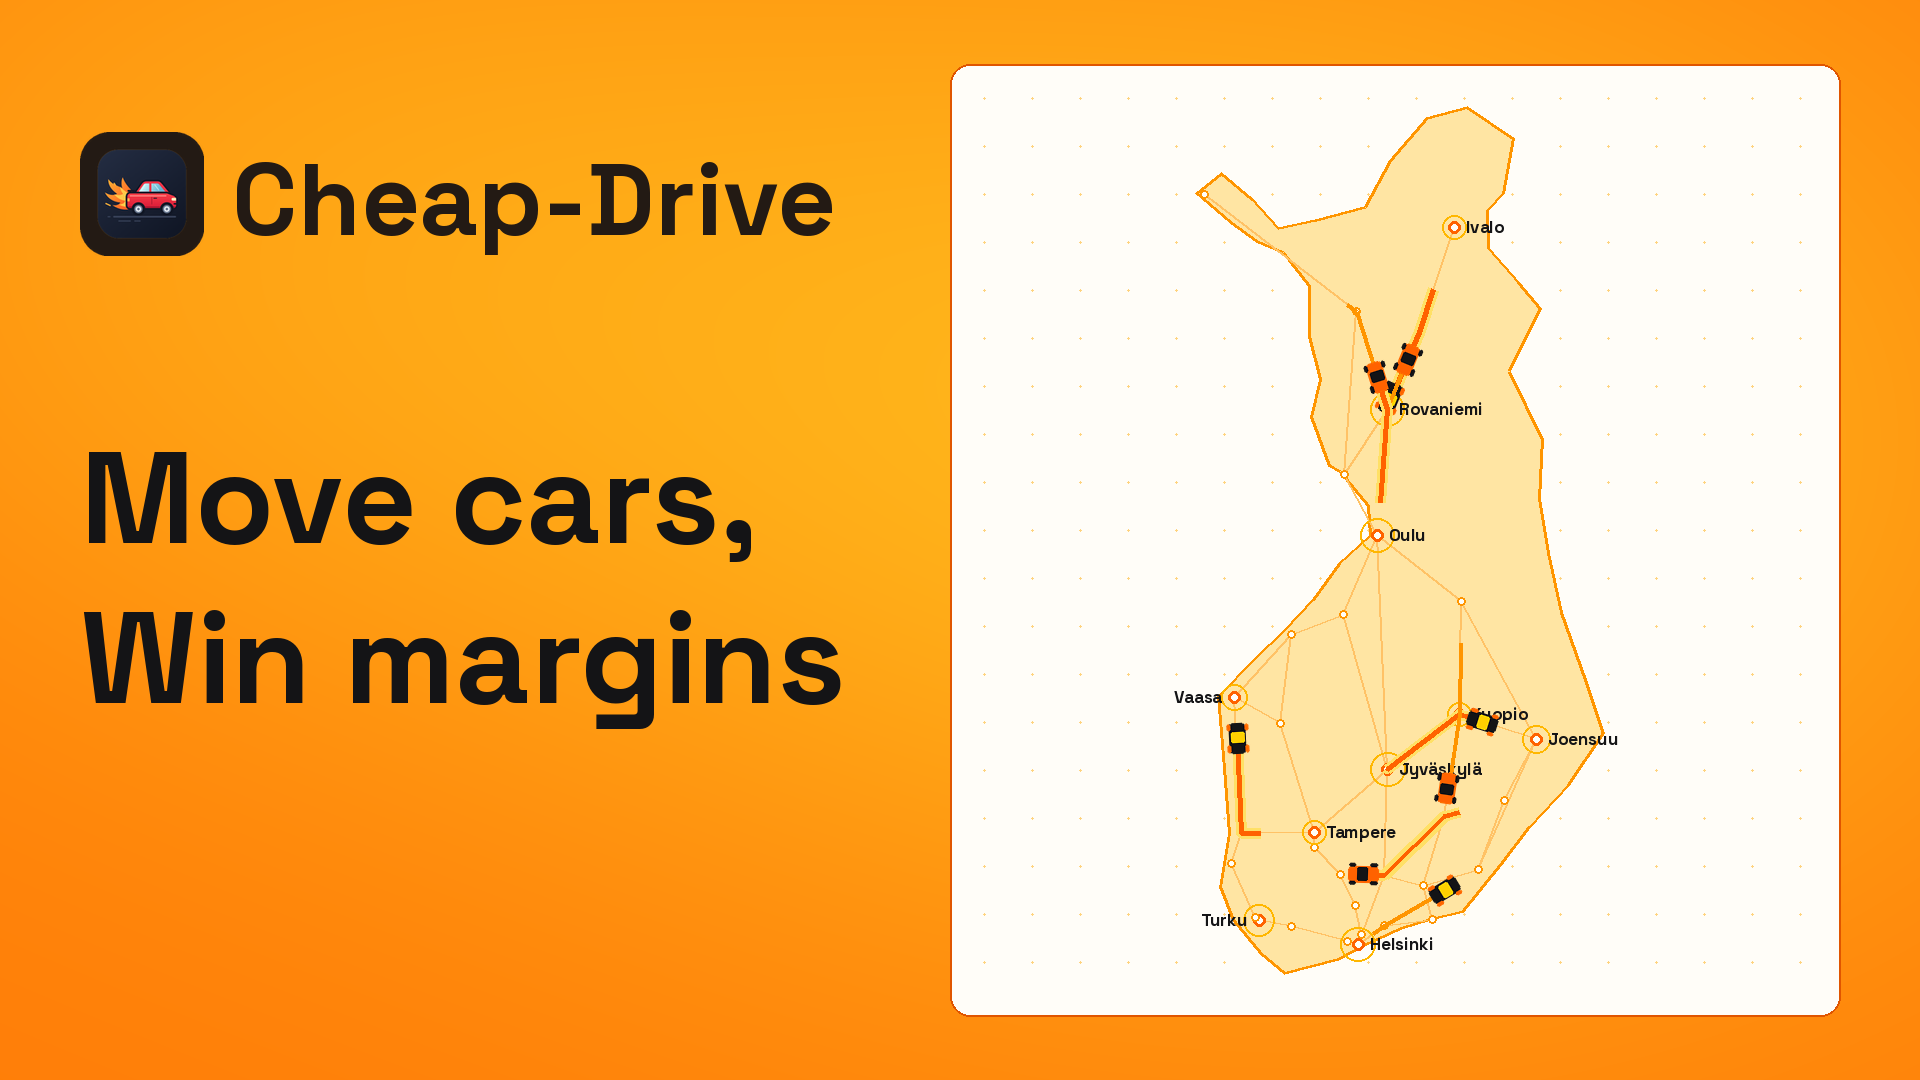
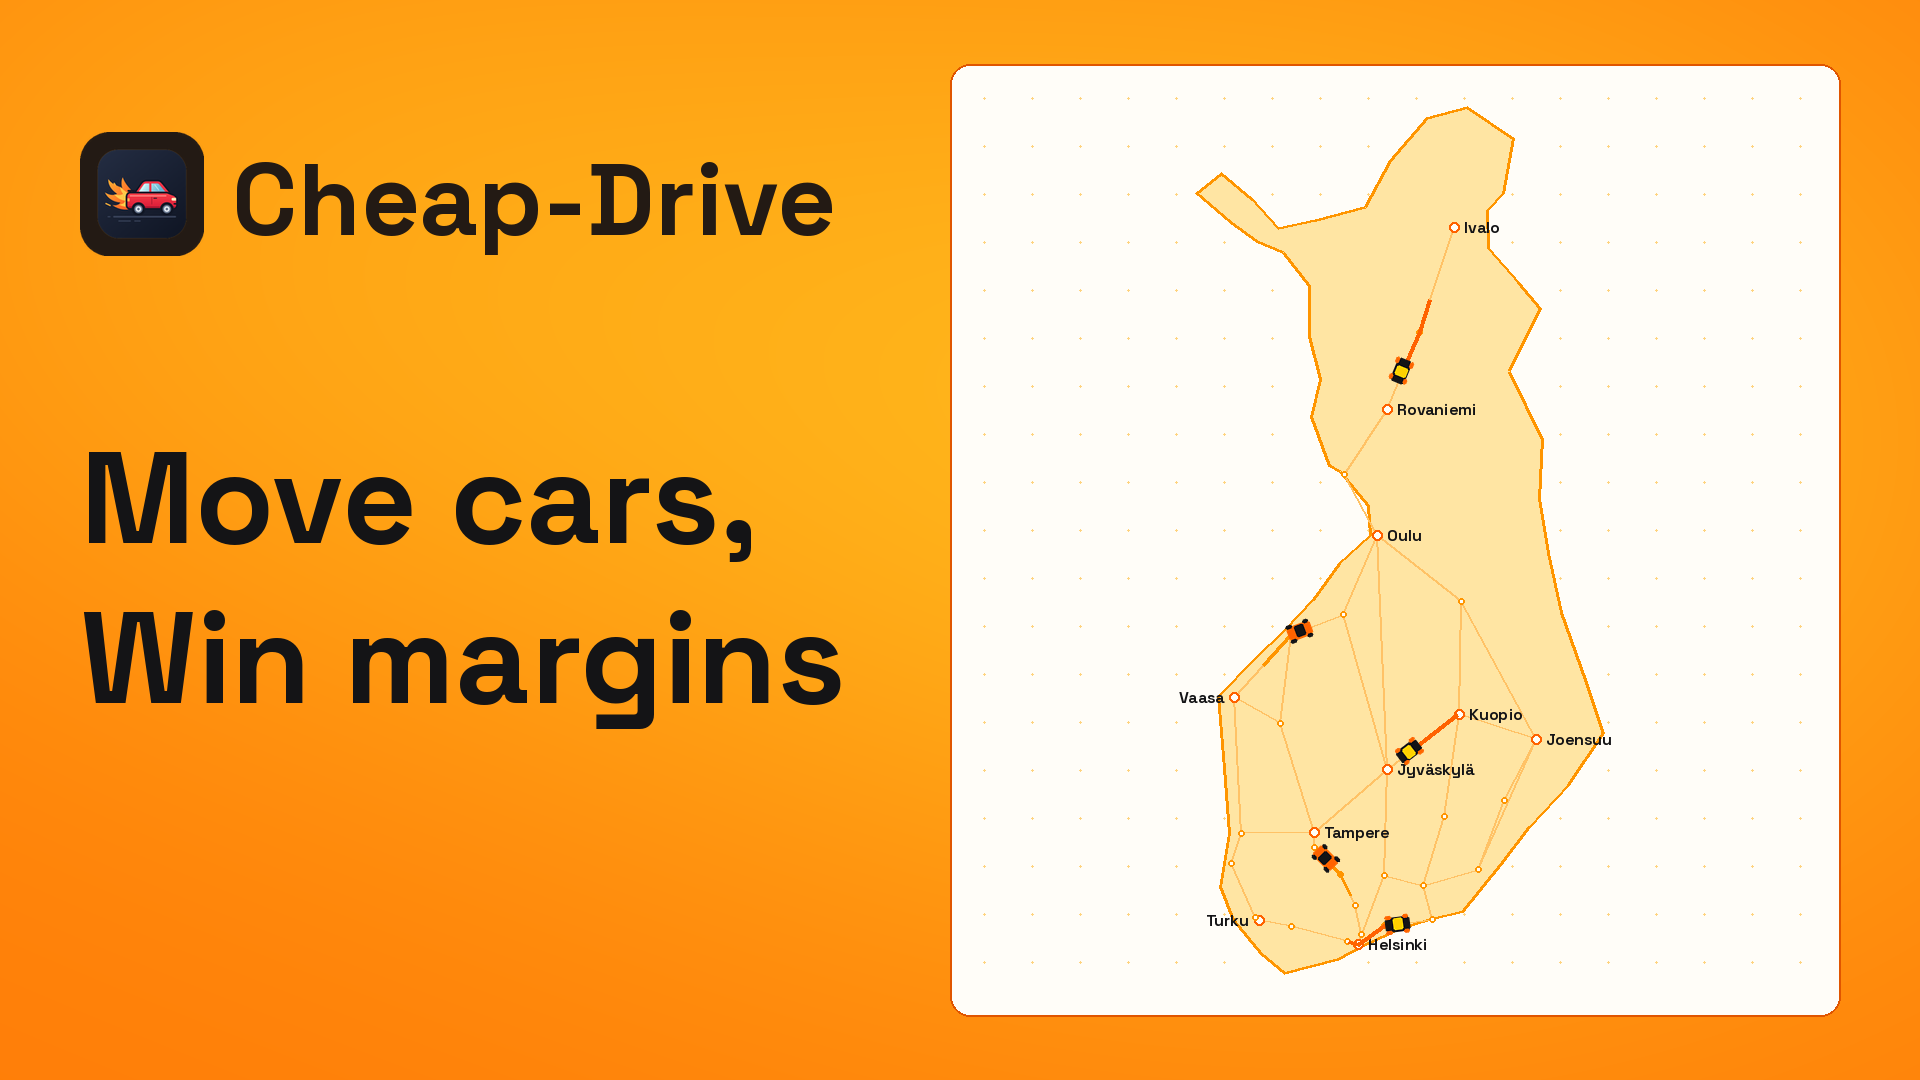
style(demo-video): make Finland fleet traffic calmer and more realistic

diff --git a/docs/demo-video/render.py b/docs/demo-video/render.py
@@ -262,7 +262,7 @@ FINLAND_BORDER = [
     (60.15, 25.10), (59.98, 24.40), (59.82, 22.96),
 ]
 
-# All 30 simulator places + northern Lapland waypoints so routes cover the entirety of Finland
+# All 30 real simulator places in Finland
 FINLAND_PLACES = {
     'helsinki': (60.1699, 24.9384, 'Helsinki', True),
     'espoo': (60.2055, 24.6559, 'Espoo', False),
@@ -295,15 +295,14 @@ FINLAND_PLACES = {
     'kemi': (65.7364, 24.5637, 'Kemi', False),
     'rovaniemi': (66.5039, 25.7294, 'Rovaniemi', True),
     'sodankyla': (67.4160, 26.5890, 'Sodankylä', False),
-    'kittila': (67.6547, 24.9074, 'Kittilä', False),
     'ivalo': (68.6576, 27.5397, 'Ivalo', True),
-    'kilpisjarvi': (69.0489, 20.7958, 'Kilpisjärvi', False),
 }
 
 FINLAND_ROADS = [
     ('helsinki', 'espoo'), ('espoo', 'salo'), ('salo', 'turku'), ('turku', 'raisio'),
     ('raisio', 'rauma'), ('rauma', 'pori'), ('pori', 'vaasa'), ('vaasa', 'kokkola'),
     ('kokkola', 'ylivieska'), ('ylivieska', 'oulu'), ('oulu', 'kemi'), ('kemi', 'rovaniemi'),
+    ('rovaniemi', 'sodankyla'), ('sodankyla', 'ivalo'),
     ('helsinki', 'vantaa'), ('vantaa', 'hyvinkaa'), ('hyvinkaa', 'hameenlinna'),
     ('hameenlinna', 'lempaala'), ('lempaala', 'tampere'), ('tampere', 'pori'),
     ('tampere', 'seinajoki'), ('seinajoki', 'vaasa'), ('seinajoki', 'kokkola'),
@@ -313,21 +312,16 @@ FINLAND_ROADS = [
     ('kouvola', 'mikkeli'), ('mikkeli', 'kuopio'), ('kuopio', 'kajaani'), ('kajaani', 'oulu'),
     ('kouvola', 'lappeenranta'), ('lappeenranta', 'savonlinna'), ('savonlinna', 'joensuu'),
     ('lappeenranta', 'joensuu'), ('joensuu', 'kuopio'), ('joensuu', 'kajaani'),
-    ('rovaniemi', 'sodankyla'), ('sodankyla', 'ivalo'), ('rovaniemi', 'kittila'),
-    ('kittila', 'kilpisjarvi'), ('kemi', 'kittila'),
 ]
 
-# Multi-directional dispatch routes (N->S, W->E, E->W, S->N, NW->SE) across Finland
+# 5 realistic main-highway transfers across 5 distinct regions of Finland
 FINLAND_TRIPS = [
     # (waypoints, start_offset, speed, color, is_primary)
-    (['ivalo', 'sodankyla', 'rovaniemi', 'kemi', 'oulu'], 0.05, 0.22, ORANGE, True),
-    (['kilpisjarvi', 'kittila', 'rovaniemi', 'sodankyla', 'ivalo'], 0.16, 0.25, MARIGOLD, False),
-    (['vaasa', 'seinajoki', 'jyvaskyla', 'kuopio', 'joensuu'], 0.24, 0.27, MARIGOLD, True),
-    (['joensuu', 'savonlinna', 'mikkeli', 'lahti', 'hameenlinna', 'turku'], 0.14, 0.24, ORANGE, True),
-    (['helsinki', 'hyvinkaa', 'hameenlinna', 'tampere', 'pori', 'vaasa'], 0.30, 0.26, ORANGE, True),
-    (['oulu', 'kajaani', 'kuopio', 'mikkeli', 'kouvola', 'kotka'], 0.18, 0.23, MARIGOLD, False),
-    (['turku', 'salo', 'espoo', 'helsinki', 'porvoo', 'lappeenranta'], 0.22, 0.28, ORANGE, False),
-    (['kokkola', 'ylivieska', 'oulu', 'rovaniemi', 'kittila'], 0.35, 0.21, MARIGOLD, True),
+    (['ivalo', 'sodankyla', 'rovaniemi', 'kemi', 'oulu'], 0.14, 0.14, ORANGE, True),
+    (['vaasa', 'kokkola', 'ylivieska', 'oulu'], 0.08, 0.15, MARIGOLD, False),
+    (['joensuu', 'kuopio', 'jyvaskyla', 'tampere'], 0.20, 0.15, ORANGE, True),
+    (['helsinki', 'hyvinkaa', 'hameenlinna', 'lempaala', 'tampere', 'pori'], 0.12, 0.16, MARIGOLD, False),
+    (['turku', 'salo', 'espoo', 'helsinki', 'porvoo', 'kotka', 'lappeenranta'], 0.28, 0.14, ORANGE, True),
 ]
 
 
@@ -398,31 +392,30 @@ def finland_map(im, t, box=(820, 80, 1840, 1000), zoom_south=False, bg=CARD, bor
         if in_box(pu) and in_box(pv):
             line(im, [pu, pv], '#FFC266', 2)
 
-    # Plot all 30 simulator towns + Lapland hubs
+    # Plot all 30 simulator towns
     for pid, (lat, lon, name, is_major) in FINLAND_PLACES.items():
         pt = proj(lat, lon)
         if not in_box(pt):
             continue
-        circle(im, *pt, 6 if is_major else 4, CARD, ORANGE if is_major else MANGO, 3 if is_major else 2)
+        circle(im, *pt, 5 if is_major else 3, CARD, ORANGE if is_major else MANGO, 2)
         if is_major:
-            circle(im, *pt, 11 + 7 * ((t * 0.85 + hash(pid) % 7 * 0.14) % 1), None, MARIGOLD, 2)
-            lx_off = -12 if pid in ('vaasa', 'turku') else 12
+            lx_off = -10 if pid in ('vaasa', 'turku') else 10
             anc = 'rm' if pid in ('vaasa', 'turku') else 'lm'
-            txt(im, name, pt[0] + lx_off, pt[1], 17, INK, weight=700, anchor=anc)
+            txt(im, name, pt[0] + lx_off, pt[1], 16, INK, weight=650, anchor=anc)
 
-    # Multi-directional trips with trailing route wakes and varied speeds/directions
+    # 5 realistic highway transfers with subtle trailing progress
     for c_idx, (corr, p0, spd, col, is_prim) in enumerate(FINLAND_TRIPS):
         pts = [proj(*FINLAND_PLACES[pid][:2]) for pid in corr if in_box(proj(*FINLAND_PLACES[pid][:2]))]
         if len(pts) < 2:
             continue
         p = (p0 + t * spd) % 1.0
-        tail = max(0.0, p - 0.34)
-        path_segment(im, pts, tail, p, ORANGE if is_prim else MANGO, 5 if is_prim else 4, glow='#FFE066' if is_prim else None)
-        if 0.03 < p < 0.97:
+        tail = max(0.0, p - 0.22)
+        path_segment(im, pts, tail, p, ORANGE if is_prim else MANGO, 4 if is_prim else 3)
+        if 0.04 < p < 0.96:
             q = route_point(pts, p)
             ahead = route_point(pts, min(p + 0.008, 1.0))
             heading = math.degrees(math.atan2(ahead[1] - q[1], ahead[0] - q[0]))
-            car(im, *q, color=INK if c_idx % 2 == 0 else ORANGE, scale=0.82, angle=heading)
+            car(im, *q, color=INK if c_idx % 2 == 0 else ORANGE, scale=0.68, angle=heading)
 
 
 def hero(t):
